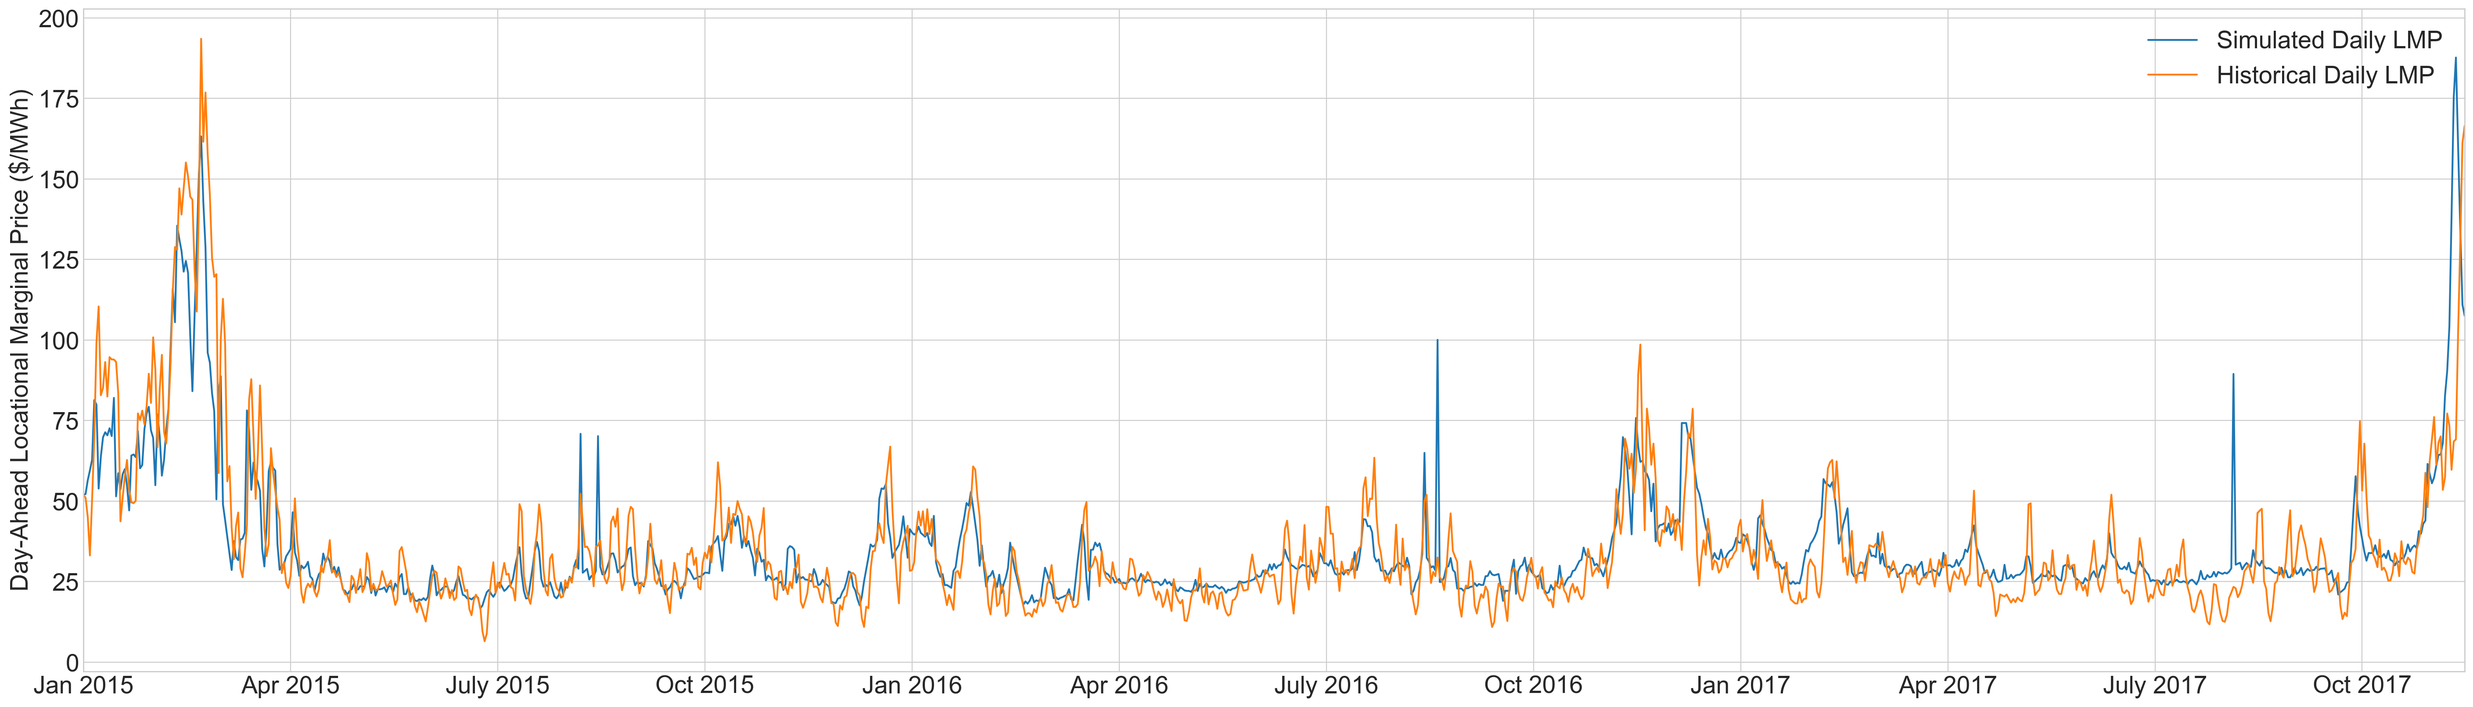
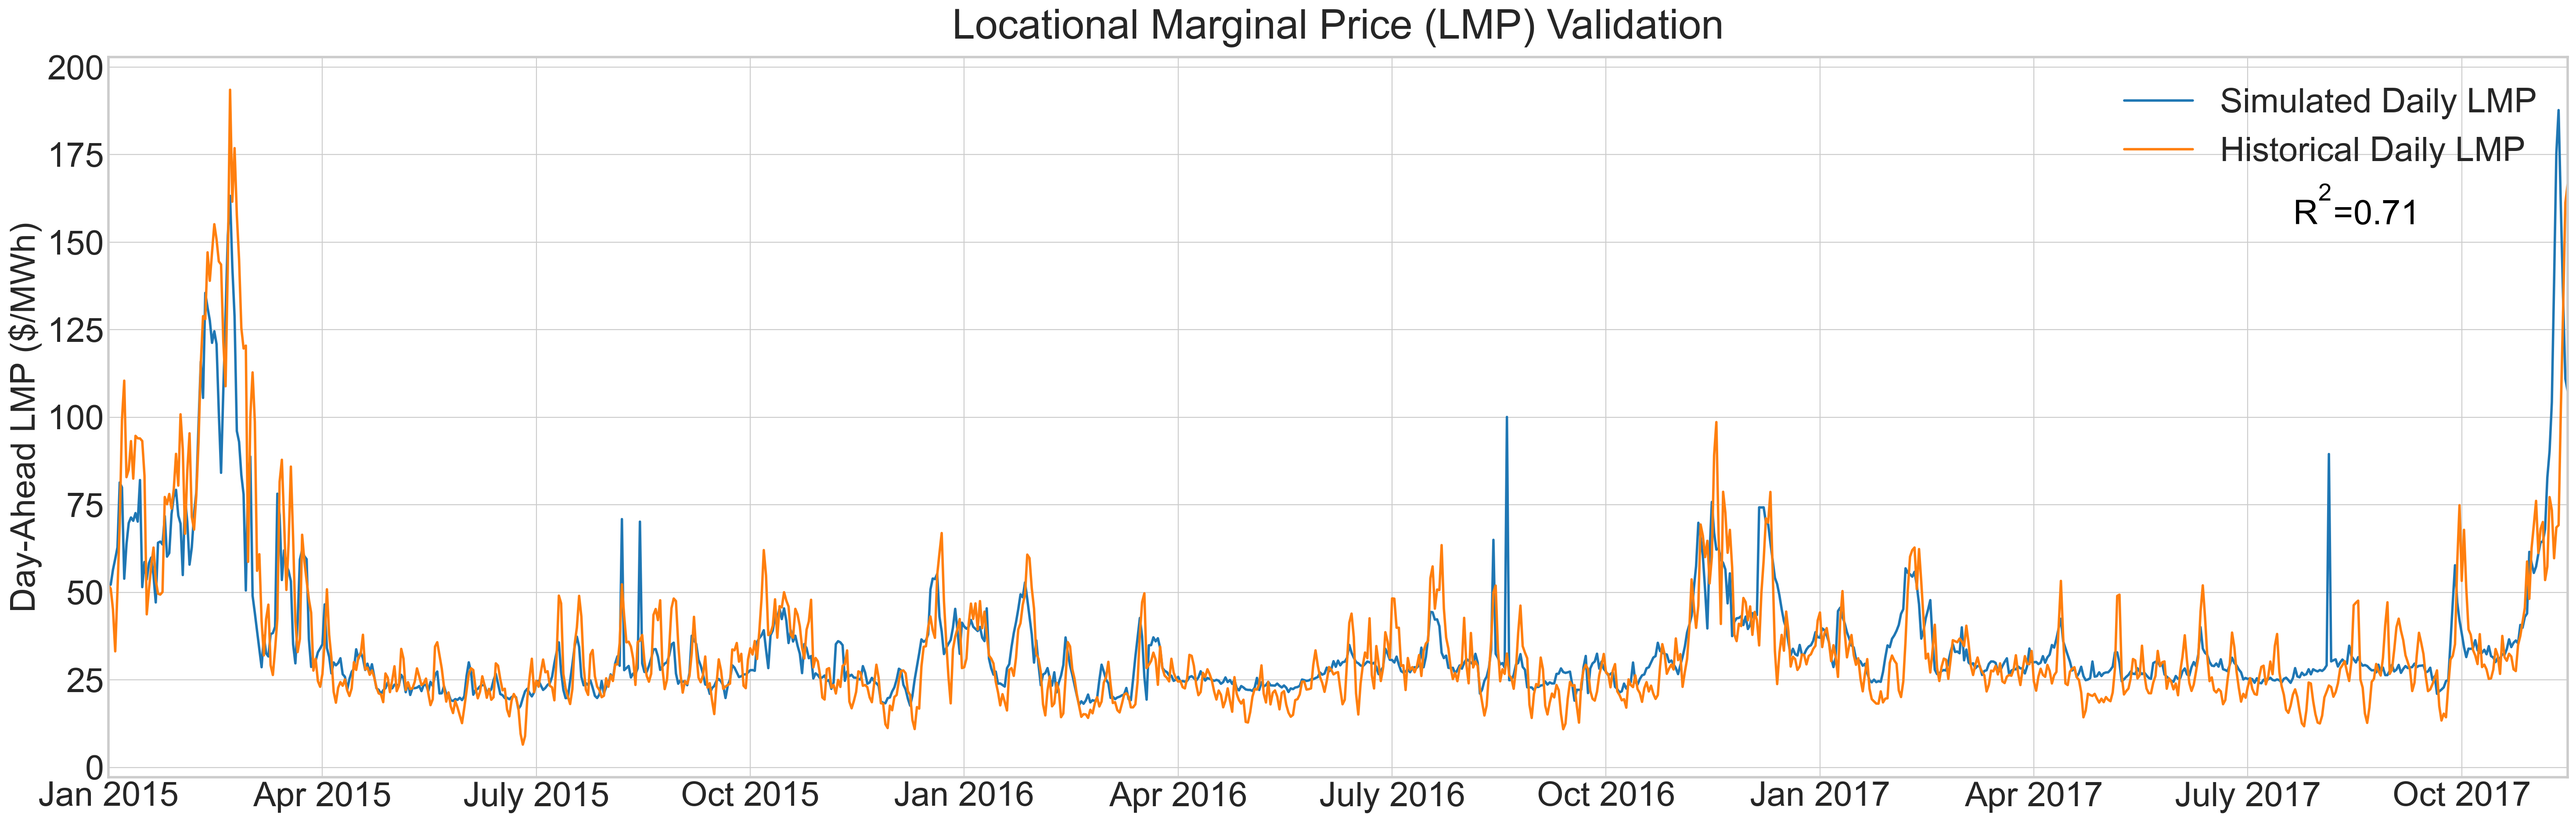
Validation update

diff --git a/UCED/Validation_and_Price_Calculation/NEISO_price_calculation.py b/UCED/Validation_and_Price_Calculation/NEISO_price_calculation.py
@@ -73,14 +73,20 @@ print('R-squared value for daily prices is ', daily_reg.score(daily_x, daily_y))
 
 #Creating a figure showing both simulated and historical daily LMPs
 plt.style.use('seaborn-whitegrid')
-plt.figure(figsize=(35,10))
-plt.rcParams.update({'font.size': 20})
-plt.plot(W_daily, label='Simulated Daily LMP')
-plt.plot(H_daily, label='Historical Daily LMP')
-plt.legend(loc='best')
-plt.ylabel('Day-Ahead Locational Marginal Price ($/MWh)')
+plt.figure(figsize=(30,10))
+plt.rcParams.update({'axes.linewidth': 2})
+plt.rcParams.update({'axes.titlepad': 15})
+plt.rcParams.update({'font.size': 28})
+
+plt.plot(W_daily, label='Simulated Daily LMP', linewidth=2)
+plt.plot(H_daily, label='Historical Daily LMP', linewidth=2)
+plt.legend(loc='upper right')
+plt.ylabel('Day-Ahead LMP ($/MWh)')
 plt.xlim([0,1092])
-plt.xticks([0,95,190,285,380,475,570,665,760,855,950,1045 ], ['Jan 2015','Apr 2015','July 2015','Oct 2015','Jan 2016','Apr 2016','July 2016','Oct 2016','Jan 2017','Apr 2017','July 2017','Oct 2017'])
+plt.xticks([0,95,190,285,380,475,570,665,760,855,950,1045], ['Jan 2015','Apr 2015','July 2015','Oct 2015','Jan 2016','Apr 2016','July 2016','Oct 2016','Jan 2017','Apr 2017','July 2017','Oct 2017'])
+plt.text(970, 155, "$\mathregular{R^{2}}$"+'='+str(round(daily_reg.score(daily_x, daily_y),2)), color='black')
+plt.title('Locational Marginal Price (LMP) Validation')
+plt.tight_layout()
 plt.savefig('Validation.png', bbox_inches='tight', dpi=200)
 plt.show()
 plt.clf()
